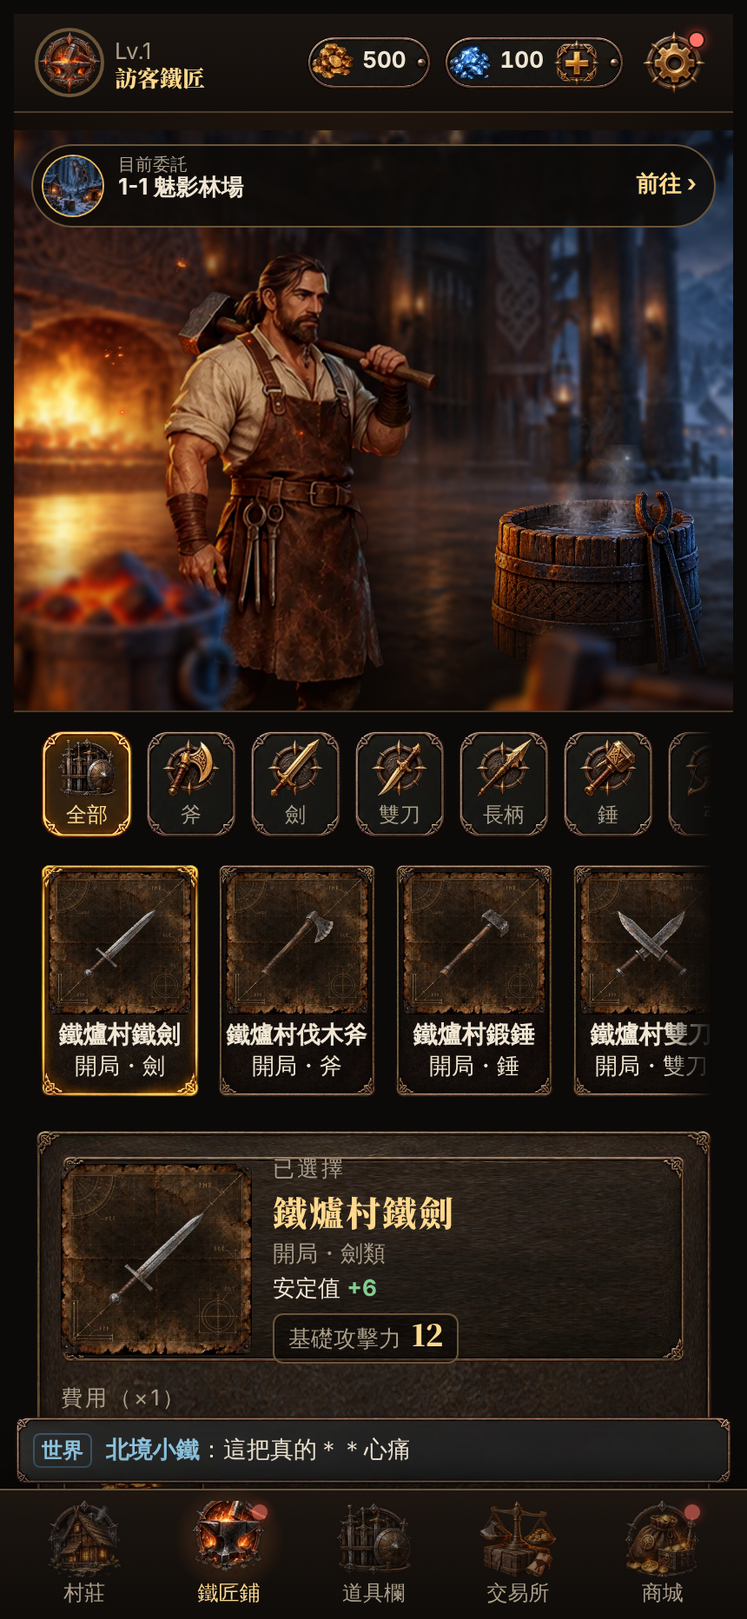
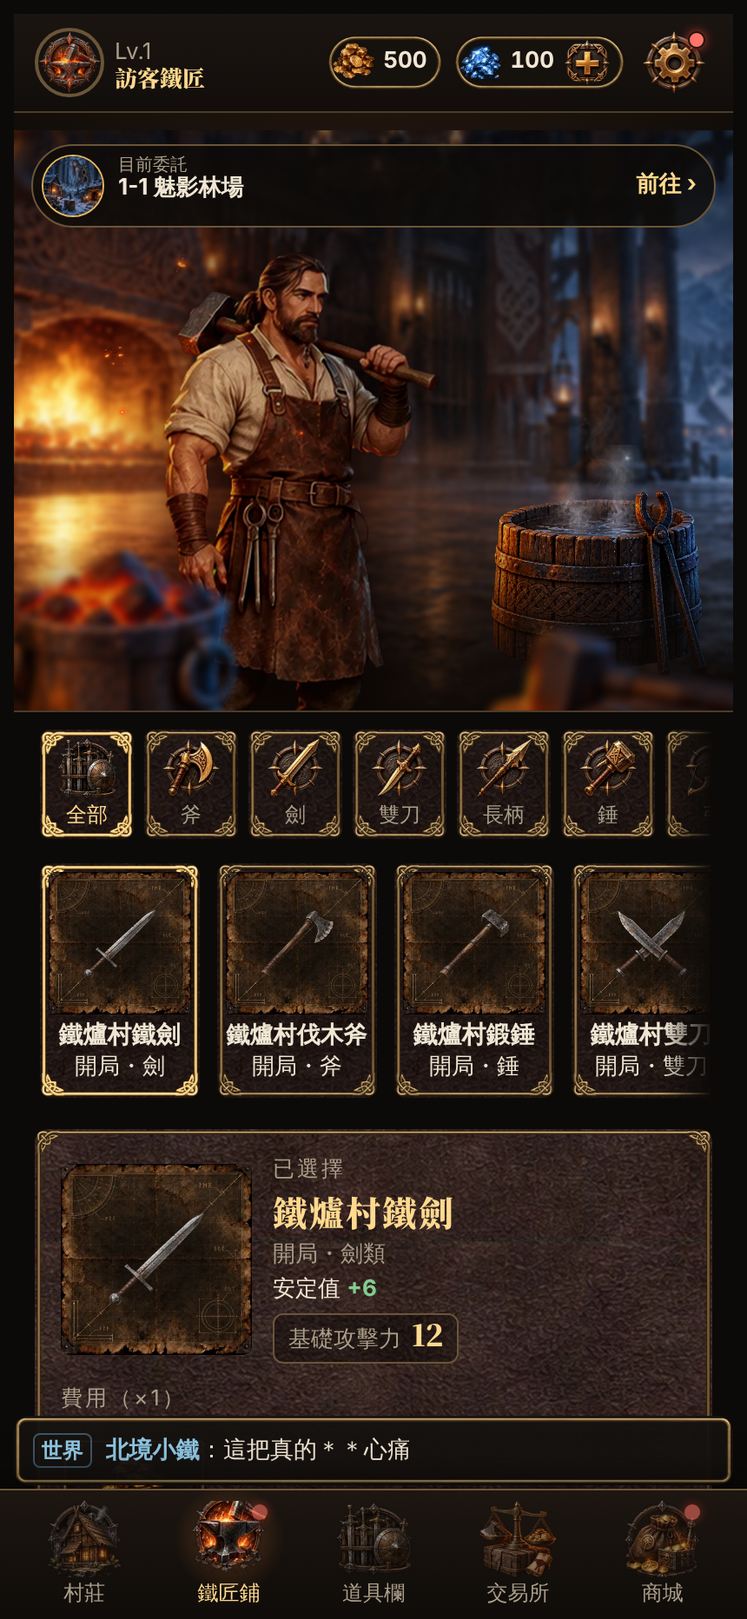
v4.91 AI 細線框與按鈕（角落雕花統一大小、底紋分開可重複）、強化故事書插圖
Claude-Session: https://claude.ai/code/session_01SeUeF3GZXFJm3dfT74oQ9s

diff --git a/index.html b/index.html
@@ -2003,20 +2003,22 @@ body.dpv .hero .dp-firelit{position:absolute;inset:0;z-index:1;pointer-events:no
 .fk-me .fk-s{font-size:20px;font-family:var(--display)}
 .kvgrid [class*="elc-"]{color:var(--ec)}   /* v4.76 村莊詳情的屬性、弱點用屬性顏色 */
 
-/* v4.91 Mochi：程式畫的框線看起來廉價 → 沒有皮膚槽位的元件也換成 AI 細線框（素材 art/ui/ui491_*，皮膚槽位設定在 skin.js） */
+/* v4.91 Mochi：程式畫的框線看起來廉價 → 沒有皮膚槽位的元件也換成 AI 細線框（素材 art/ui/ui491_*，皮膚槽位設定在 skin.js）
+   框：fr 暗銅／fr_on 金（選中）／fr_red 紅（危險）／fr_off 灰（鎖住、停用），角落雕花一樣大（15px）；fl* 是沒有雕花的細線框，給小元件用；cap* 是膠囊 */
 .sheet,.modal-card,.info-body{scrollbar-width:none}.sheet::-webkit-scrollbar,.modal-card::-webkit-scrollbar,.info-body::-webkit-scrollbar{display:none}   /* 小卡內容稍微超出時不顯示旁邊的捲動條（還是可以滑） */
-.wt:not(#_),.wt:is(.l0b,.l1b,.l2b,.l3b,.l4b,.l5b,.l6b,.posted):not(#_){border-color:transparent;border-image:url(art/ui/ui491_tile.webp) 44 fill / 13px stretch;background:none;box-shadow:none}
-.sg-day:not(#_),.matbox:not(#_){border-color:transparent;border-image:url(art/ui/ui491_cell.webp) 46 fill / 14px stretch;background:none;box-shadow:none}
-.sg-day.today:not(#_){border-image-source:url(art/ui/ui491_cell_on.webp)}
-.ach-rw:not(#_){border-color:transparent;border-image:url(art/ui/ui491_pill.webp) 59 60 fill / 30px stretch;background:none}
-.res .chip:not(#_){border-color:transparent;border-image:url(art/ui/ui491_res.webp) 56 58 fill / 30px stretch;background:none;box-shadow:none}
-.cbar-in:not(#_){border-color:transparent;border-image:url(art/ui/ui491_chat.webp) 36 40 fill / 10px 12px stretch;background:none;box-shadow:none}
-.sel select:not(#_){appearance:none;-webkit-appearance:none;border-color:transparent;border-image:url(art/ui/ui491_select.webp) 34 70 34 34 fill / 10px 21px 10px 10px stretch;background:none;padding-right:26px}
+.wt:not(#_),.wt:is(.l0b,.l1b,.l2b,.l3b,.l4b,.l5b,.l6b,.posted):not(#_),.sg-day:not(#_),.matbox:not(#_),.ev-st:not(#_),.wp-g>*:not(#_){border-color:transparent;border-image:url(art/ui/ui491_fr.webp) 50 / 15px stretch;background:linear-gradient(rgba(0,0,0,.38),rgba(0,0,0,.38)),url(art/ui/ui491_tex.webp) center/240px;box-shadow:none}
+.wt.on:not(#_),.sg-day.today:not(#_){outline:none;border-image-source:url(art/ui/ui491_fr_on.webp)}
+.ev-st.risk:not(#_),.enh-stage.danger:not(#_){border-color:transparent;border-image:url(art/ui/ui491_fr_red.webp) 50 / 15px stretch}
+.enh-stage:not(.danger):not(#_){border-color:transparent;border-image:url(art/ui/ui491_fr.webp) 50 / 15px stretch}
+.ev-warn.risk:not(#_){border-color:transparent;border-image:url(art/ui/ui491_fl_red.webp) 24 / 8px stretch}
+.enh-more:not(#_),.cbar-in:not(#_){border-color:transparent;border-image:url(art/ui/ui491_fl.webp) 24 / 8px stretch;box-shadow:none}
+.vlocked:not(#_){border-style:solid;border-color:transparent;border-image:url(art/ui/ui491_fr_off.webp) 50 / 15px stretch}
+.ach-rw:not(#_),.res .chip:not(#_){border-color:transparent;border-image:url(art/ui/ui491_cap.webp) 53 / 30px stretch;background:#15110d;box-shadow:none}
+.sel select:not(#_){appearance:none;-webkit-appearance:none;border-color:transparent;border-image:url(art/ui/ui491_fl.webp) 24 / 8px stretch;background:url(art/ui/ui491_chev.webp) right 10px center/10px auto no-repeat,#15110d;padding-right:28px}
 .sel select option{background:#16110d;color:var(--bone)}
 .info-btn:not(#_){border-color:transparent;background:url(art/ui/ui491_info.webp) center/100% 100% no-repeat;box-shadow:none}
-.wt.on:not(#_){outline:none;border-image-source:url(art/ui/ui491_cell_on.webp)}   /* 選中的圖紙／武器格用金色細框，不用程式畫的外框線 */
-.ui-panel .ui-card.sel-head:not(#_){border-image:none;border-color:transparent;background:none}   /* 面板裡的已選擇區塊不要再套一層框 */
-.res .chip:not(#_){padding-right:14px}
+.wp-g>*:not(#_){padding:9px 13px}
+.ui-panel.panel .ui-card.sel-head.sel-head:not(#_){border-image:none;border-color:transparent;background:none}   /* 面板裡的已選擇區塊不要再套一層框 */
 </style>
 <div class="ui-topbar bar"><div class="bar-in"><div class="res" id="res"></div></div><div class="news" id="news" aria-live="polite" data-act="chatsys"></div></div>
 <main class="wrap" id="view"></main>
@@ -2048,39 +2050,36 @@ body.dpv .hero .dp-firelit{position:absolute;inset:0;z-index:1;pointer-events:no
  *
  * 槽位對應的元件請見開發工具 →「UI 元件」分頁，或 UI_元件架構說明.txt。
  * ===================================================================== */
-const UI491_BTN=false;   // v4.91 按鈕要等角落雕花版的新圖（兩端整片雕花會因按鈕高矮變大變小，Mochi 不要）
 const UI_SKIN={
-  ...(UI491_BTN?{
-  'btn-primary':{src:'art/ui/ui491_btn_pri.webp',slice:[63,50,63,50],width:[30,24,30,24],css:'text-shadow:0 1px 2px #000,0 0 4px rgba(0,0,0,.85);padding-left:max(16px,.5em + 12px);padding-right:max(16px,.5em + 12px)'},  'btn-primary:pressed':{src:'art/ui/ui491_btn_pri_p.webp'},  'btn-primary:disabled':{src:'art/ui/ui491_btn_pri_d.webp',css:'filter:none;opacity:1;color:#cfc4b0;text-shadow:0 1px 2px #000,0 0 4px rgba(0,0,0,.85)'},
-  'btn-primary-big':{src:'art/ui/ui491_btn_pri.webp',slice:[63,50,63,50],width:[30,24,30,24],css:'text-shadow:0 1px 2px #000,0 0 4px rgba(0,0,0,.85);padding-left:max(16px,.5em + 12px);padding-right:max(16px,.5em + 12px)'},  'btn-primary-big:pressed':{src:'art/ui/ui491_btn_pri_p.webp'},  'btn-primary-big:disabled':{src:'art/ui/ui491_btn_pri_d.webp',css:'filter:none;opacity:1;color:#cfc4b0;text-shadow:0 1px 2px #000,0 0 4px rgba(0,0,0,.85)'},
-  'btn-primary-compact':{src:'art/ui/ui491_btn_pri.webp',slice:[63,50,63,50],width:[30,24,30,24],css:'text-shadow:0 1px 2px #000,0 0 4px rgba(0,0,0,.85);padding-left:max(16px,.5em + 12px);padding-right:max(16px,.5em + 12px)'},  'btn-primary-compact:pressed':{src:'art/ui/ui491_btn_pri_p.webp'},  'btn-primary-compact:disabled':{src:'art/ui/ui491_btn_pri_d.webp',css:'filter:none;opacity:1;color:#cfc4b0;text-shadow:0 1px 2px #000,0 0 4px rgba(0,0,0,.85)'},
-  'btn-secondary':{src:'art/ui/ui491_btn_sec.webp',slice:[63,50,63,50],width:[30,24,30,24],css:'text-shadow:0 1px 2px #000,0 0 4px rgba(0,0,0,.85);padding-left:max(16px,.5em + 12px);padding-right:max(16px,.5em + 12px)'},  'btn-secondary:pressed':{src:'art/ui/ui491_btn_sec_p.webp'},  'btn-secondary:disabled':{src:'art/ui/ui491_btn_sec_d.webp',css:'filter:none;opacity:1;color:#cfc4b0;text-shadow:0 1px 2px #000,0 0 4px rgba(0,0,0,.85)'},
-  'btn-secondary-big':{src:'art/ui/ui491_btn_sec.webp',slice:[63,50,63,50],width:[30,24,30,24],css:'text-shadow:0 1px 2px #000,0 0 4px rgba(0,0,0,.85);padding-left:max(16px,.5em + 12px);padding-right:max(16px,.5em + 12px)'},  'btn-secondary-big:pressed':{src:'art/ui/ui491_btn_sec_p.webp'},  'btn-secondary-big:disabled':{src:'art/ui/ui491_btn_sec_d.webp',css:'filter:none;opacity:1;color:#cfc4b0;text-shadow:0 1px 2px #000,0 0 4px rgba(0,0,0,.85)'},
-  'btn-secondary-compact':{src:'art/ui/ui491_btn_sec.webp',slice:[63,50,63,50],width:[30,24,30,24],css:'text-shadow:0 1px 2px #000,0 0 4px rgba(0,0,0,.85);padding-left:max(16px,.5em + 12px);padding-right:max(16px,.5em + 12px)'},  'btn-secondary-compact:pressed':{src:'art/ui/ui491_btn_sec_p.webp'},  'btn-secondary-compact:disabled':{src:'art/ui/ui491_btn_sec_d.webp',css:'filter:none;opacity:1;color:#cfc4b0;text-shadow:0 1px 2px #000,0 0 4px rgba(0,0,0,.85)'},
-  'btn-danger':{src:'art/ui/ui491_btn_dan.webp',slice:[63,50,63,50],width:[30,24,30,24],css:'text-shadow:0 1px 2px #000,0 0 4px rgba(0,0,0,.85);padding-left:max(16px,.5em + 12px);padding-right:max(16px,.5em + 12px)'},  'btn-danger:pressed':{src:'art/ui/ui491_btn_dan_p.webp'},  'btn-danger:disabled':{src:'art/ui/ui491_btn_dan_d.webp',css:'filter:none;opacity:1;color:#cfc4b0;text-shadow:0 1px 2px #000,0 0 4px rgba(0,0,0,.85)'},
-  'btn-danger-big':{src:'art/ui/ui491_btn_dan.webp',slice:[63,50,63,50],width:[30,24,30,24],css:'text-shadow:0 1px 2px #000,0 0 4px rgba(0,0,0,.85);padding-left:max(16px,.5em + 12px);padding-right:max(16px,.5em + 12px)'},  'btn-danger-big:pressed':{src:'art/ui/ui491_btn_dan_p.webp'},  'btn-danger-big:disabled':{src:'art/ui/ui491_btn_dan_d.webp',css:'filter:none;opacity:1;color:#cfc4b0;text-shadow:0 1px 2px #000,0 0 4px rgba(0,0,0,.85)'},
-  'btn-danger-compact':{src:'art/ui/ui491_btn_dan.webp',slice:[63,50,63,50],width:[30,24,30,24],css:'text-shadow:0 1px 2px #000,0 0 4px rgba(0,0,0,.85);padding-left:max(16px,.5em + 12px);padding-right:max(16px,.5em + 12px)'},  'btn-danger-compact:pressed':{src:'art/ui/ui491_btn_dan_p.webp'},  'btn-danger-compact:disabled':{src:'art/ui/ui491_btn_dan_d.webp',css:'filter:none;opacity:1;color:#cfc4b0;text-shadow:0 1px 2px #000,0 0 4px rgba(0,0,0,.85)'},
-  }:{}),
-  // v4.91 Mochi：程式畫的框和按鈕看起來很廉價 → 全部換成 AI 細線框（拼圖 3 張：/mnt/project-files/ui-skin/v4.91/）
-  //   width 是四邊圖框的繪製寬度；按鈕的上下寬度相加大於按鈕高度時，瀏覽器會整組等比縮小，所以同一張圖可以給各種高度的按鈕用
-  'btn-chip':{src:'art/ui/ui491_pill.webp',slice:[59,60,59,60],width:[30,30,30,30]},  'btn-chip:on':{src:'art/ui/ui491_pill_on.webp',css:'color:var(--gold-hi)'},
-  'btn-toggle':{src:'art/ui/ui491_tog.webp',slice:[40,40,40,40],width:[12,12,12,12]},  'btn-toggle:on':{src:'art/ui/ui491_tog_on.webp'},
+  // v4.91 Mochi：程式畫的框和按鈕看起來很廉價 → 換成 AI 細線框（拼圖：/mnt/project-files/ui-skin/v4.91/整合版_*）
+  //   規則：雕花只在四個角，所有元件的角落雕花都一樣大（圖框繪製寬度 ÷ 切片 ≈ 0.3）；框中間是空的，底紋另外用可重複的 ui491_tex
+  'btn-primary':{src:'art/ui/ui491_b_pri.webp',slice:[52,52,52,52],width:[15,15,15,15],css:'text-shadow:0 1px 2px #000,0 0 4px rgba(0,0,0,.85);padding-left:16px;padding-right:16px'},  'btn-primary:pressed':{src:'art/ui/ui491_b_pri_p.webp'},  'btn-primary:disabled':{src:'art/ui/ui491_b_pri_d.webp',css:'filter:none;opacity:1;color:#bdb3a2;text-shadow:0 1px 2px #000,0 0 4px rgba(0,0,0,.85)'},
+  'btn-primary-big':{src:'art/ui/ui491_b_pri.webp',slice:[52,52,52,52],width:[15,15,15,15],css:'text-shadow:0 1px 2px #000,0 0 4px rgba(0,0,0,.85);padding-left:16px;padding-right:16px'},  'btn-primary-big:pressed':{src:'art/ui/ui491_b_pri_p.webp'},  'btn-primary-big:disabled':{src:'art/ui/ui491_b_pri_d.webp',css:'filter:none;opacity:1;color:#bdb3a2;text-shadow:0 1px 2px #000,0 0 4px rgba(0,0,0,.85)'},
+  'btn-primary-compact':{src:'art/ui/ui491_b_pri.webp',slice:[52,52,52,52],width:[15,15,15,15],css:'text-shadow:0 1px 2px #000,0 0 4px rgba(0,0,0,.85);padding-left:16px;padding-right:16px'},  'btn-primary-compact:pressed':{src:'art/ui/ui491_b_pri_p.webp'},  'btn-primary-compact:disabled':{src:'art/ui/ui491_b_pri_d.webp',css:'filter:none;opacity:1;color:#bdb3a2;text-shadow:0 1px 2px #000,0 0 4px rgba(0,0,0,.85)'},
+  'btn-secondary':{src:'art/ui/ui491_b_sec.webp',slice:[52,52,52,52],width:[15,15,15,15],css:'text-shadow:0 1px 2px #000,0 0 4px rgba(0,0,0,.85);padding-left:16px;padding-right:16px'},  'btn-secondary:pressed':{src:'art/ui/ui491_b_sec_p.webp'},  'btn-secondary:disabled':{src:'art/ui/ui491_b_sec_d.webp',css:'filter:none;opacity:1;color:#bdb3a2;text-shadow:0 1px 2px #000,0 0 4px rgba(0,0,0,.85)'},
+  'btn-secondary-big':{src:'art/ui/ui491_b_sec.webp',slice:[52,52,52,52],width:[15,15,15,15],css:'text-shadow:0 1px 2px #000,0 0 4px rgba(0,0,0,.85);padding-left:16px;padding-right:16px'},  'btn-secondary-big:pressed':{src:'art/ui/ui491_b_sec_p.webp'},  'btn-secondary-big:disabled':{src:'art/ui/ui491_b_sec_d.webp',css:'filter:none;opacity:1;color:#bdb3a2;text-shadow:0 1px 2px #000,0 0 4px rgba(0,0,0,.85)'},
+  'btn-secondary-compact':{src:'art/ui/ui491_b_sec.webp',slice:[52,52,52,52],width:[15,15,15,15],css:'text-shadow:0 1px 2px #000,0 0 4px rgba(0,0,0,.85);padding-left:16px;padding-right:16px'},  'btn-secondary-compact:pressed':{src:'art/ui/ui491_b_sec_p.webp'},  'btn-secondary-compact:disabled':{src:'art/ui/ui491_b_sec_d.webp',css:'filter:none;opacity:1;color:#bdb3a2;text-shadow:0 1px 2px #000,0 0 4px rgba(0,0,0,.85)'},
+  'btn-danger':{src:'art/ui/ui491_b_dan.webp',slice:[52,52,52,52],width:[15,15,15,15],css:'text-shadow:0 1px 2px #000,0 0 4px rgba(0,0,0,.85);padding-left:16px;padding-right:16px'},  'btn-danger:pressed':{src:'art/ui/ui491_b_dan_p.webp'},  'btn-danger:disabled':{src:'art/ui/ui491_b_dan_d.webp',css:'filter:none;opacity:1;color:#bdb3a2;text-shadow:0 1px 2px #000,0 0 4px rgba(0,0,0,.85)'},
+  'btn-danger-big':{src:'art/ui/ui491_b_dan.webp',slice:[52,52,52,52],width:[15,15,15,15],css:'text-shadow:0 1px 2px #000,0 0 4px rgba(0,0,0,.85);padding-left:16px;padding-right:16px'},  'btn-danger-big:pressed':{src:'art/ui/ui491_b_dan_p.webp'},  'btn-danger-big:disabled':{src:'art/ui/ui491_b_dan_d.webp',css:'filter:none;opacity:1;color:#bdb3a2;text-shadow:0 1px 2px #000,0 0 4px rgba(0,0,0,.85)'},
+  'btn-danger-compact':{src:'art/ui/ui491_b_dan.webp',slice:[52,52,52,52],width:[15,15,15,15],css:'text-shadow:0 1px 2px #000,0 0 4px rgba(0,0,0,.85);padding-left:16px;padding-right:16px'},  'btn-danger-compact:pressed':{src:'art/ui/ui491_b_dan_p.webp'},  'btn-danger-compact:disabled':{src:'art/ui/ui491_b_dan_d.webp',css:'filter:none;opacity:1;color:#bdb3a2;text-shadow:0 1px 2px #000,0 0 4px rgba(0,0,0,.85)'},
+  'btn-chip':{src:'art/ui/ui491_cap.webp',slice:[53,53,53,53],width:[30,30,30,30],fill:false,css:'background:#15110d'},  'btn-chip:on':{src:'art/ui/ui491_cap_on.webp',css:'color:var(--gold-hi)'},
+  'btn-toggle':{src:'art/ui/ui491_fr.webp',slice:[50,50,50,50],width:[15,15,15,15],fill:false,css:'background:linear-gradient(rgba(0,0,0,.38),rgba(0,0,0,.38)),url(art/ui/ui491_tex.webp) center/240px'},  'btn-toggle:on':{src:'art/ui/ui491_fr_on.webp'},
   'btn-accent':null,            'btn-accent:pressed':null,
   'btn-icon':null,              'btn-icon:pressed':null,
-  'tab':{src:'art/ui/ui491_tab.webp',slice:[34,34,34,34],width:[10,10,10,10]},  'tab:on':{src:'art/ui/ui491_tab_on.webp'},
+  'tab':{src:'art/ui/ui491_fr.webp',slice:[50,50,50,50],width:[15,15,15,15],fill:false,css:'background:linear-gradient(rgba(0,0,0,.38),rgba(0,0,0,.38)),url(art/ui/ui491_tex.webp) center/240px'},  'tab:on':{src:'art/ui/ui491_fr_on.webp'},
   // 面板與卡片
-  'panel':{src:'art/ui/ui491_panel.webp',slice:[52,52,52,52],width:[16,16,16,16]},
+  'panel':{src:'art/ui/ui491_fr.webp',slice:[50,50,50,50],width:[15,15,15,15],fill:false,css:'background:url(art/ui/ui491_tex.webp) center/240px'},
   'title':null,
-  'card':{src:'art/ui/ui491_cell.webp',slice:[46,46,46,46],width:[14,14,14,14]},  'card:on':{src:'art/ui/ui491_cell_on.webp'},
-  'card-compact':{src:'art/ui/ui491_cell.webp',slice:[46,46,46,46],width:[14,14,14,14]},  'card-compact:on':{src:'art/ui/ui491_cell_on.webp'},
+  'card':{src:'art/ui/ui491_fr.webp',slice:[50,50,50,50],width:[15,15,15,15],fill:false,css:'background:linear-gradient(rgba(0,0,0,.38),rgba(0,0,0,.38)),url(art/ui/ui491_tex.webp) center/240px'},  'card:on':{src:'art/ui/ui491_fr_on.webp'},
+  'card-compact':{src:'art/ui/ui491_fr.webp',slice:[50,50,50,50],width:[15,15,15,15],fill:false,css:'background:linear-gradient(rgba(0,0,0,.38),rgba(0,0,0,.38)),url(art/ui/ui491_tex.webp) center/240px'},  'card-compact:on':{src:'art/ui/ui491_fr_on.webp'},
   'card-feature':null,
-  'card-option':{src:'art/ui/ui491_cell.webp',slice:[46,46,46,46],width:[14,14,14,14]},  'card-option:on':{src:'art/ui/ui491_cell_on.webp'},
-  'card-row':{src:'art/ui/ui491_row.webp',slice:[46,46,46,46],width:[14,14,14,14]},
+  'card-option':{src:'art/ui/ui491_fr.webp',slice:[50,50,50,50],width:[15,15,15,15],fill:false,css:'background:linear-gradient(rgba(0,0,0,.38),rgba(0,0,0,.38)),url(art/ui/ui491_tex.webp) center/240px'},  'card-option:on':{src:'art/ui/ui491_fr_on.webp'},
+  'card-row':{src:'art/ui/ui491_fr.webp',slice:[50,50,50,50],width:[15,15,15,15],fill:false,css:'background:linear-gradient(rgba(0,0,0,.38),rgba(0,0,0,.38)),url(art/ui/ui491_tex.webp) center/240px'},
   'badge':null,
   'prog':null,                  'prog-fill':null,
   // 視窗與常駐列
-  'sheet':{src:'art/ui/ui491_modal.webp',slice:[58,58,58,58],width:[17,17,17,17]},
-  'modal':{src:'art/ui/ui491_modal.webp',slice:[58,58,58,58],width:[17,17,17,17]},
+  'sheet':{src:'art/ui/ui491_fr_modal.webp',slice:[50,50,50,50],width:[17,17,17,17],fill:false,css:'background:url(art/ui/ui491_tex.webp) center/240px'},
+  'modal':{src:'art/ui/ui491_fr_modal.webp',slice:[50,50,50,50],width:[17,17,17,17],fill:false,css:'background:url(art/ui/ui491_tex.webp) center/240px'},
   'toast':null,
   'topbar':null,
   'navbar':null,
@@ -3507,6 +3506,7 @@ function sndSettings(){if(ui.sheet&&ui.sheet.t==='set')return render();ui.result
 // v4.03 遊戲內公告＋玩法說明（Mochi 選：右上角齒輪取代喇叭、內容寫在程式裡、不自動跳出只亮紅點）
 // 每次更新：在 NW_LOG 最上面加一則（g＝這次改到的玩法 key），並把 GUIDE 裡對應項目的內容和 v 改成新版本 → 沒看過的玩家會看到 NEW、齒輪亮紅點
 const NW_LOG=[
+ {v:'4.91',d:'10/25',t:'介面換上手工細線框・強化故事書',b:['面板、格子、分頁、按鈕、選單、膠囊標籤換成<b>手工雕刻的細金屬框</b>：暗銅是一般、金色是選中、紅色是危險、灰色是鎖住，四個角的小雕花全遊戲一樣大','強化小卡右上角多了故事書<b>「倒懸九夜」</b>：奧丁倒吊世界樹換來符文、符文石碑與強化石的由來，第一次翻開送 10 顆強化石','從武器小卡點「強化」不會再重播一次彈出動畫','小卡內容比較長時，旁邊不再顯示捲動條（一樣可以滑）'],g:['enh']},
  {v:'4.90',d:'10/25',t:'跑框特效不再重來',b:['+9 以上武器框的<b>電流繞框</b>特效，連按附魔、強化或畫面更新時不會再跳回起點重跑，所有地方都一樣'],g:['ench']},
  {v:'4.89',d:'10/25',t:'道具欄外框統一',b:['道具欄每一格的<b>外框統一成銅色</b>，不會再出現裡面藍框、外面綠框的情況；強化等級看裡面的武器框顏色'],g:['bag']},
  {v:'4.88',d:'10/25',t:'奧丁之咒顯示在武器名稱前面',b:['道具欄格子裡，中了奧丁之咒的武器名稱前面會顯示紅色「<b>奧丁之咒</b>」，跟屬性名稱一樣的位置'],g:['ench']},
@@ -3604,7 +3604,7 @@ const GUIDE=[
  ['基礎',[
   {k:'forge',ic:'t1_ironhammer_disp',n:'鍛造',s:'選圖紙、付金幣和材料，5 秒打好一批',v:'4.54',h:'在鐵匠鋪「圖紙」選一張圖紙，金幣和材料夠就能按「開始鍛造」。開局 7 把只花金幣；之後的武器要用打怪掉的材料：第一界用<b>中庭鐵礦、松林硬木</b>，第二界用<b>約頓霜鐵、約頓巨木</b>，怪物主題武器另外要怪物部位（1-7 巨魔石皮、2-8 幻術巨人王骨），Boss 武器要 Boss 素材（1-10 彩虹橋碎晶、2-10 索爾雷晶）。<br>開局就有 7 種武器的圖紙；收復第一界 1-2、1-4、1-6、1-7、1-10，第二界 2-1、2-3、2-5、2-8、2-10 會解鎖新圖紙。第 7／8 關是<b>怪物主題武器</b>（攻擊力多 10%），第 10 關是 <b>Boss 武器</b>（帶專屬特效）。兩界為一階，同一階的武器一樣強，想變強就要強化。<br>一次一批（最多 10 把），不管幾把都是 <b>5 秒</b>完成，進度條就在「開始鍛造」下方，可以取消（金幣全退）。'},
   {k:'wpn',ic:'cat_sword',n:'武器數值與相剋',s:'攻速、附加效果、相剋，點武器看小卡',v:'4.79',h:'點武器會跳出小卡。<b>攻擊力＝每秒傷害</b>，已經算進附加效果的平均。<br>七類武器攻速：雙刀 0.6 秒、劍 1.0、弓 1.1、長柄 1.2、斧 1.3、弩 1.6、錘 1.8 秒；每秒傷害都差不多，攻速慢的單擊比較重。<br><b>附加效果</b>：劍會心、斧流血、錘震碎、雙刀中毒、長柄貫穿、弓穿心、弩破甲；+1～+6 每級觸發率 2%，+7 起 16／20／25／30／35／40%。<br><b>相剋</b>：怪物分人形、野獸、巨型、亡靈。劍、雙刀剋人形，長柄、斧剋野獸，弩、弓剋巨型，錘剋亡靈；打被剋的怪物傷害會增加，強化越高加越多：+1～+6 每級 +1%、+7～+9 每級 +2%、+10～+12 每級 +3%（+6 為 6%、+9 為 12%、+12 為 21%），跟屬性弱點一起算。<br>武器名稱是「+7 寒霜 鐵劍」：強化等級、附魔、武器名。'},
-  {k:'enh',ic:'it_bless',n:'強化',s:'每次 1 顆強化石，最高 +12',v:'4.65',h:'每次強化用 <b>1 顆強化石</b>，不花金幣，成功或失敗都會用掉。強化石從村莊收成拿（越後面的關卡掉越多），熔解武器也會退 1 顆。<br>+1～+6 一定成功。+7 起是危險區：+7 35%、+8 32.5%、+9 30%，失敗就爆裝；+10～+12 每級 1%，失敗時 1/3 維持原樣、2/3 爆裝。最高 <b>+12</b>。<br>攻擊倍率：+6 ×1.6、+7 ×1.9、+8 ×2.25、+9 ×2.65、+10 ×3.3、+11 ×4、+12 ×4.8。<br>武器的框色看強化等級：+0 灰、+1～+6 綠、+7～+8 藍、+9 紅、+10 金、+11 紫、+12 鑽石，+9 以上的框有電流繞著跑。<br>+1～+6 按強化直接出結果；+7 起符文石碑的燈光和武器光暈就是那一級外框的顏色。「一鍵強化」會一級一級連擊播放，點畫面可以略過。'},
+  {k:'enh',ic:'it_bless',n:'強化',s:'每次 1 顆強化石，最高 +12',v:'4.91',h:'每次強化用 <b>1 顆強化石</b>，不花金幣，成功或失敗都會用掉。強化石從村莊收成拿（越後面的關卡掉越多），熔解武器也會退 1 顆。<br>+1～+6 一定成功。+7 起是危險區：+7 35%、+8 32.5%、+9 30%，失敗就爆裝；+10～+12 每級 1%，失敗時 1/3 維持原樣、2/3 爆裝。最高 <b>+12</b>。<br>攻擊倍率：+6 ×1.6、+7 ×1.9、+8 ×2.25、+9 ×2.65、+10 ×3.3、+11 ×4、+12 ×4.8。<br>武器的框色看強化等級：+0 灰、+1～+6 綠、+7～+8 藍、+9 紅、+10 金、+11 紫、+12 鑽石，+9 以上的框有電流繞著跑。<br>+1～+6 按強化直接出結果；+7 起符文石碑的燈光和武器光暈就是那一級外框的顏色。「一鍵強化」會一級一級連擊播放，點畫面可以略過。<br>強化小卡右上角的故事書「倒懸九夜」講符文石碑和強化石的由來，第一次翻開送 10 顆強化石。'},
   {k:'ench',ic:'mat_shard',n:'屬性附魔',s:'6 種屬性三對互剋，打中弱點加傷害、同屬性扣傷害',v:'4.84',h:'鍛造出來的武器一律<b>無屬性</b>。每次附魔花 <b>1 顆附魔石</b>加金幣，隨機附魔，得到 1 種屬性（每把武器只有 1 欄，重抽會蓋掉舊的；已經是三級時會跳確認小卡，按「確定重抽」才會重抽）。<br>屬性 6 種：<b>火屬性、冰屬性、雷屬性、毒屬性、聖屬性、暗屬性</b>，機率一樣。等級越高越難抽：一級 66.5%、二級 23.75%、三級 4.75%。<br><b>奧丁之咒（5%）</b>：符文之主奧丁不許凡人動祂的符文，降下詛咒。原本的屬性消失，武器<b>完全不能使用</b>（不能駐守、挑戰、強化、上架、登錄圖鑑），要用 1 顆<b>矮人解咒石</b>解咒，解咒後變回無屬性。解咒石打倒怪物有機率掉，商城也買得到。<br>名稱：火屬性 餘燼／烈焰／滅世之焰；冰屬性 寒霜／冰封／永凍之霜；雷屬性 雷光／雷鳴／雷神之怒；毒屬性 蝕毒／蛇毒／巨蟒之毒；聖屬性 微光／聖光／光神聖輝；暗屬性 幽影／暗夜／盲神之影。<br><b>相剋（三對宿敵）</b>：火屬性⇄冰屬性、雷屬性⇄毒屬性、聖屬性⇄暗屬性。每隻怪物都有屬性，弱點就是對手屬性。<br>打中弱點：一級 +3%、二級 +6%、三級 +10%，狩獵更快、收成更多。<br><b>同屬性抗性</b>：拿跟怪物一樣屬性的武器（例如火屬性打火屬性的怪物）：一級 −3%、二級 −6%、三級 −10%。等級越高加越多、也扣越多，附魔前先看清楚怪物屬性。<br>其他屬性或無屬性都是正常傷害。屬性不加攻擊力。'},
   {k:'bag',ic:'nav_forge',n:'道具欄',s:'同一種道具疊一格，沒有上限',v:'4.72',h:'下方導覽的「<b>道具欄</b>」（原本的武器庫）分「武器／材料／圖鑑」三頁，道具在「材料」頁。<br>武器頁：一模一樣的武器（同一把、同強化等級、同屬性）疊在同一格，右下角是數量；點進去的操作只動其中一把；按「一鍵安定值」後小卡會換到下一把同款，可以一直按。上限 200 把照算每一把。同一種道具放在同一格，右下角顯示數量，沒有上限。<br>道具：<b>強化石</b>（強化用）、<b>附魔石</b>（附魔用）、<b>英靈・遺物</b>（綠光、藍光、紅光、金光四種，光芒越亮內容越好）。三種都是打倒怪物有機率掉，越後面的關卡掉越多、好遺物越多。<br>點遺物可以看開出機率，按「打開 1 個」或「全部打開」：可能開到金幣、材料、強化石、附魔石、Boss 素材或武器。<br>材料：每一界 2 種一般材料，加上怪物部位和 Boss 素材，點一下看哪裡掉、哪把武器會用到。'},
   {k:'codex',ic:'nav_armory',n:'武器圖鑑',s:'登錄武器換全帳號攻擊力，武器會消失',v:'4.72',h:'道具欄的「<b>圖鑑</b>」分頁。每把武器有 3 格：<b>+0</b>（+0.2%）、<b>+6</b>（+0.6%）、<b>+9</b>（+1.5%），道具欄有強化到那個等級以上的同款武器就能登錄（格子會發亮），自動挑等級最低、沒駐守、沒鎖定的那把。<br><b>登錄後那把武器會消失</b>，換到所有武器攻擊力的永久加成。<br>「套裝」分頁：6 個套裝湊齊再加 +2%～+5%。兩界全部收滿最多 +57.1%。'},
@@ -3702,7 +3702,7 @@ function enhance(id){
   playFx(r.danger,r.before,r.next,res)}
 function enchant(id,slot){const r=enchantCore(id,slot);if(r.err)return toast(r.err,'bad');if(r.k==='broken'){snd('enh_break');ui.result={t:'info',title:'奧丁之咒！',html:'<div class="center">符文之主奧丁不許凡人動祂的符文，降下了詛咒。<br>這把武器<b class="t-danger">完全不能使用</b>，<br>要用<b>矮人解咒石</b>破除，解咒後變回無屬性。</div>',ok:'知道了'};return render()}snd(r.v>=3?'enh_ok':'enchant');render()}
 // v4.83 故事書（Mochi：附魔系統旁邊放一本書，裡面一張圖＋故事，讓遊戲有劇情）。圖 art/ic_lore、art/story_ench 還沒到時先放待生圖框
-const LORE_ART={ic_lore:true,story_ench:true};   // v4.83 Mochi AI 生圖已到
+const LORE_ART={ic_lore:true,story_ench:true,story_enh:true};   // v4.83 Mochi AI 生圖已到
 const loreArt=(n,cls)=>LORE_ART[n]?img(n,cls):`<span class="ph-ico ${cls}">待生圖</span>`;
 const loreNew=k=>!(S.loreSeen||{})[k];   // v4.83 Mochi：第一次翻開送 10 顆附魔石＋2 顆矮人解咒石，只能領一次（存檔 S.loreSeen）
 const loreBtn=k=>`<button class="ui-iconbtn icon-btn img lore-btn" data-act="lore" data-k="${k}" aria-label="故事">${loreArt('ic_lore','lore-ic')}${loreNew(k)?'<i class="dot give-dot"></i>':''}</button>`;
@@ -4850,6 +4850,7 @@ function viewShop(){
 // v4.62 開發者工具「依版本」分頁（Mochi）：新版本一律加在最上面，一個版本一段。
 // v＝版本、t＝這版改了什麼（一句話）、b＝[按鈕代碼, 按鈕文字]；按鈕代碼就是 devdo(k) 的 k，文字可以是函式（會變的狀態）
 const DEV_LOG=[
+ {v:'4.91',t:'AI 細線框與按鈕、強化故事書「倒懸九夜」、強化不重播彈出',b:[['skin91','給測試武器並打開武器小卡（看框、按鈕；再按「強化」看會不會重播彈出）'],['lore91','打開強化故事書「倒懸九夜」（第一次送 10 顆強化石）'],['lore83r','重置故事書已讀（可以再領一次測試）']]},
  {v:'4.90',t:'+9 以上跑框特效：畫面重畫時接著跑，不再重置',b:[['run90','給 +9 測試劍並打開附魔，每 0.3 秒重畫一次（看跑框會不會跳）']]},
  {v:'4.89',t:'道具欄格子外框統一銅色（強化等級只看內框）',b:[['flvtest','給各強化等級的武器（看道具欄外框）']]},
  {v:'4.88',t:'道具欄格子：奧丁之咒改顯示在武器名稱前面',b:[['brkstk','給 3 把同款 +6 劍，其中 1 把中咒（看道具欄）']]},
@@ -5084,6 +5085,8 @@ if(k==='cpush'){toast('上傳中…');cloudPush(true).then(()=>{toast(CLOUD.err?
   if(k==='affopen'){const c={},t=[0,0,0,0];for(let i=0;i<6000;i++){const x=Object.keys(ELEM)[rnd(0,5)],v=weighted([1,2,3],y=>ELEM_TW[y]);c[x]=(c[x]||0)+1;t[v]++}   // v4.44 屬性附魔
     return toast(`附魔 6000 次：${Object.entries(c).map(([x,n])=>ELEM[x].n+' '+n).join('、')}<br>等級：一級 ${t[1]}、二級 ${t[2]}、三級 ${t[3]}（應約 4200／1500／300）`,'ok')}
   if(k==='res77'){const wi=makeWeapon('dev_sword',2,6,[],[{k:'ice',v:3},null,null,null]),wf=makeWeapon('dev_sword',2,6,[],[{k:'fire',v:3},null,null,null]);save();ui.sheet={t:'w',id:wf.id,m:'ench'};render();return toast(`1-9 火焰騎兵：永凍之霜 ×${weakMul(8,wi)}（應 1.1）、滅世之焰 ×${weakMul(8,wf)}（應 0.9）`)}
+  if(k==='skin91'){S.weapons=S.weapons||[];devdo('flvtest');const w=S.weapons.find(x=>x.test&&x.lv===8)||S.weapons[0];ui.tab='armory';ui.atab='w';ui.sheet=w?{t:'w',id:w.id,m:'main'}:null;render();return}
+  if(k==='lore91'){const w=makeWeapon('dev_sword',2,8,[]);save();ui.sheet={t:'w',id:w.id,m:'enh'};loreOpen('enh');return}
   if(k==='lore83r'){S.loreSeen={};save();render();return toast('故事書已讀已重置','ok')}
   if(k==='lore83'){const w=makeWeapon('dev_sword',2,6,[]);save();ui.sheet={t:'w',id:w.id,m:'ench'};loreOpen('ench');return}
   if(k==='brk83'){const w=makeWeapon('dev_sword',2,6,[],[{k:'broken',v:1},null,null,null]);S.items[REPAIR]=(S.items[REPAIR]|0)+3;save();ui.sheet={t:'w',id:w.id,m:'main'};render();return}

diff --git a/src/game.js b/src/game.js
@@ -1313,6 +1313,7 @@ function sndSettings(){if(ui.sheet&&ui.sheet.t==='set')return render();ui.result
 // v4.03 遊戲內公告＋玩法說明（Mochi 選：右上角齒輪取代喇叭、內容寫在程式裡、不自動跳出只亮紅點）
 // 每次更新：在 NW_LOG 最上面加一則（g＝這次改到的玩法 key），並把 GUIDE 裡對應項目的內容和 v 改成新版本 → 沒看過的玩家會看到 NEW、齒輪亮紅點
 const NW_LOG=[
+ {v:'4.91',d:'10/25',t:'介面換上手工細線框・強化故事書',b:['面板、格子、分頁、按鈕、選單、膠囊標籤換成<b>手工雕刻的細金屬框</b>：暗銅是一般、金色是選中、紅色是危險、灰色是鎖住，四個角的小雕花全遊戲一樣大','強化小卡右上角多了故事書<b>「倒懸九夜」</b>：奧丁倒吊世界樹換來符文、符文石碑與強化石的由來，第一次翻開送 10 顆強化石','從武器小卡點「強化」不會再重播一次彈出動畫','小卡內容比較長時，旁邊不再顯示捲動條（一樣可以滑）'],g:['enh']},
  {v:'4.90',d:'10/25',t:'跑框特效不再重來',b:['+9 以上武器框的<b>電流繞框</b>特效，連按附魔、強化或畫面更新時不會再跳回起點重跑，所有地方都一樣'],g:['ench']},
  {v:'4.89',d:'10/25',t:'道具欄外框統一',b:['道具欄每一格的<b>外框統一成銅色</b>，不會再出現裡面藍框、外面綠框的情況；強化等級看裡面的武器框顏色'],g:['bag']},
  {v:'4.88',d:'10/25',t:'奧丁之咒顯示在武器名稱前面',b:['道具欄格子裡，中了奧丁之咒的武器名稱前面會顯示紅色「<b>奧丁之咒</b>」，跟屬性名稱一樣的位置'],g:['ench']},
@@ -1410,7 +1411,7 @@ const GUIDE=[
  ['基礎',[
   {k:'forge',ic:'t1_ironhammer_disp',n:'鍛造',s:'選圖紙、付金幣和材料，5 秒打好一批',v:'4.54',h:'在鐵匠鋪「圖紙」選一張圖紙，金幣和材料夠就能按「開始鍛造」。開局 7 把只花金幣；之後的武器要用打怪掉的材料：第一界用<b>中庭鐵礦、松林硬木</b>，第二界用<b>約頓霜鐵、約頓巨木</b>，怪物主題武器另外要怪物部位（1-7 巨魔石皮、2-8 幻術巨人王骨），Boss 武器要 Boss 素材（1-10 彩虹橋碎晶、2-10 索爾雷晶）。<br>開局就有 7 種武器的圖紙；收復第一界 1-2、1-4、1-6、1-7、1-10，第二界 2-1、2-3、2-5、2-8、2-10 會解鎖新圖紙。第 7／8 關是<b>怪物主題武器</b>（攻擊力多 10%），第 10 關是 <b>Boss 武器</b>（帶專屬特效）。兩界為一階，同一階的武器一樣強，想變強就要強化。<br>一次一批（最多 10 把），不管幾把都是 <b>5 秒</b>完成，進度條就在「開始鍛造」下方，可以取消（金幣全退）。'},
   {k:'wpn',ic:'cat_sword',n:'武器數值與相剋',s:'攻速、附加效果、相剋，點武器看小卡',v:'4.79',h:'點武器會跳出小卡。<b>攻擊力＝每秒傷害</b>，已經算進附加效果的平均。<br>七類武器攻速：雙刀 0.6 秒、劍 1.0、弓 1.1、長柄 1.2、斧 1.3、弩 1.6、錘 1.8 秒；每秒傷害都差不多，攻速慢的單擊比較重。<br><b>附加效果</b>：劍會心、斧流血、錘震碎、雙刀中毒、長柄貫穿、弓穿心、弩破甲；+1～+6 每級觸發率 2%，+7 起 16／20／25／30／35／40%。<br><b>相剋</b>：怪物分人形、野獸、巨型、亡靈。劍、雙刀剋人形，長柄、斧剋野獸，弩、弓剋巨型，錘剋亡靈；打被剋的怪物傷害會增加，強化越高加越多：+1～+6 每級 +1%、+7～+9 每級 +2%、+10～+12 每級 +3%（+6 為 6%、+9 為 12%、+12 為 21%），跟屬性弱點一起算。<br>武器名稱是「+7 寒霜 鐵劍」：強化等級、附魔、武器名。'},
-  {k:'enh',ic:'it_bless',n:'強化',s:'每次 1 顆強化石，最高 +12',v:'4.65',h:'每次強化用 <b>1 顆強化石</b>，不花金幣，成功或失敗都會用掉。強化石從村莊收成拿（越後面的關卡掉越多），熔解武器也會退 1 顆。<br>+1～+6 一定成功。+7 起是危險區：+7 35%、+8 32.5%、+9 30%，失敗就爆裝；+10～+12 每級 1%，失敗時 1/3 維持原樣、2/3 爆裝。最高 <b>+12</b>。<br>攻擊倍率：+6 ×1.6、+7 ×1.9、+8 ×2.25、+9 ×2.65、+10 ×3.3、+11 ×4、+12 ×4.8。<br>武器的框色看強化等級：+0 灰、+1～+6 綠、+7～+8 藍、+9 紅、+10 金、+11 紫、+12 鑽石，+9 以上的框有電流繞著跑。<br>+1～+6 按強化直接出結果；+7 起符文石碑的燈光和武器光暈就是那一級外框的顏色。「一鍵強化」會一級一級連擊播放，點畫面可以略過。'},
+  {k:'enh',ic:'it_bless',n:'強化',s:'每次 1 顆強化石，最高 +12',v:'4.91',h:'每次強化用 <b>1 顆強化石</b>，不花金幣，成功或失敗都會用掉。強化石從村莊收成拿（越後面的關卡掉越多），熔解武器也會退 1 顆。<br>+1～+6 一定成功。+7 起是危險區：+7 35%、+8 32.5%、+9 30%，失敗就爆裝；+10～+12 每級 1%，失敗時 1/3 維持原樣、2/3 爆裝。最高 <b>+12</b>。<br>攻擊倍率：+6 ×1.6、+7 ×1.9、+8 ×2.25、+9 ×2.65、+10 ×3.3、+11 ×4、+12 ×4.8。<br>武器的框色看強化等級：+0 灰、+1～+6 綠、+7～+8 藍、+9 紅、+10 金、+11 紫、+12 鑽石，+9 以上的框有電流繞著跑。<br>+1～+6 按強化直接出結果；+7 起符文石碑的燈光和武器光暈就是那一級外框的顏色。「一鍵強化」會一級一級連擊播放，點畫面可以略過。<br>強化小卡右上角的故事書「倒懸九夜」講符文石碑和強化石的由來，第一次翻開送 10 顆強化石。'},
   {k:'ench',ic:'mat_shard',n:'屬性附魔',s:'6 種屬性三對互剋，打中弱點加傷害、同屬性扣傷害',v:'4.84',h:'鍛造出來的武器一律<b>無屬性</b>。每次附魔花 <b>1 顆附魔石</b>加金幣，隨機附魔，得到 1 種屬性（每把武器只有 1 欄，重抽會蓋掉舊的；已經是三級時會跳確認小卡，按「確定重抽」才會重抽）。<br>屬性 6 種：<b>火屬性、冰屬性、雷屬性、毒屬性、聖屬性、暗屬性</b>，機率一樣。等級越高越難抽：一級 66.5%、二級 23.75%、三級 4.75%。<br><b>奧丁之咒（5%）</b>：符文之主奧丁不許凡人動祂的符文，降下詛咒。原本的屬性消失，武器<b>完全不能使用</b>（不能駐守、挑戰、強化、上架、登錄圖鑑），要用 1 顆<b>矮人解咒石</b>解咒，解咒後變回無屬性。解咒石打倒怪物有機率掉，商城也買得到。<br>名稱：火屬性 餘燼／烈焰／滅世之焰；冰屬性 寒霜／冰封／永凍之霜；雷屬性 雷光／雷鳴／雷神之怒；毒屬性 蝕毒／蛇毒／巨蟒之毒；聖屬性 微光／聖光／光神聖輝；暗屬性 幽影／暗夜／盲神之影。<br><b>相剋（三對宿敵）</b>：火屬性⇄冰屬性、雷屬性⇄毒屬性、聖屬性⇄暗屬性。每隻怪物都有屬性，弱點就是對手屬性。<br>打中弱點：一級 +3%、二級 +6%、三級 +10%，狩獵更快、收成更多。<br><b>同屬性抗性</b>：拿跟怪物一樣屬性的武器（例如火屬性打火屬性的怪物）：一級 −3%、二級 −6%、三級 −10%。等級越高加越多、也扣越多，附魔前先看清楚怪物屬性。<br>其他屬性或無屬性都是正常傷害。屬性不加攻擊力。'},
   {k:'bag',ic:'nav_forge',n:'道具欄',s:'同一種道具疊一格，沒有上限',v:'4.72',h:'下方導覽的「<b>道具欄</b>」（原本的武器庫）分「武器／材料／圖鑑」三頁，道具在「材料」頁。<br>武器頁：一模一樣的武器（同一把、同強化等級、同屬性）疊在同一格，右下角是數量；點進去的操作只動其中一把；按「一鍵安定值」後小卡會換到下一把同款，可以一直按。上限 200 把照算每一把。同一種道具放在同一格，右下角顯示數量，沒有上限。<br>道具：<b>強化石</b>（強化用）、<b>附魔石</b>（附魔用）、<b>英靈・遺物</b>（綠光、藍光、紅光、金光四種，光芒越亮內容越好）。三種都是打倒怪物有機率掉，越後面的關卡掉越多、好遺物越多。<br>點遺物可以看開出機率，按「打開 1 個」或「全部打開」：可能開到金幣、材料、強化石、附魔石、Boss 素材或武器。<br>材料：每一界 2 種一般材料，加上怪物部位和 Boss 素材，點一下看哪裡掉、哪把武器會用到。'},
   {k:'codex',ic:'nav_armory',n:'武器圖鑑',s:'登錄武器換全帳號攻擊力，武器會消失',v:'4.72',h:'道具欄的「<b>圖鑑</b>」分頁。每把武器有 3 格：<b>+0</b>（+0.2%）、<b>+6</b>（+0.6%）、<b>+9</b>（+1.5%），道具欄有強化到那個等級以上的同款武器就能登錄（格子會發亮），自動挑等級最低、沒駐守、沒鎖定的那把。<br><b>登錄後那把武器會消失</b>，換到所有武器攻擊力的永久加成。<br>「套裝」分頁：6 個套裝湊齊再加 +2%～+5%。兩界全部收滿最多 +57.1%。'},
@@ -1508,7 +1509,7 @@ function enhance(id){
   playFx(r.danger,r.before,r.next,res)}
 function enchant(id,slot){const r=enchantCore(id,slot);if(r.err)return toast(r.err,'bad');if(r.k==='broken'){snd('enh_break');ui.result={t:'info',title:'奧丁之咒！',html:'<div class="center">符文之主奧丁不許凡人動祂的符文，降下了詛咒。<br>這把武器<b class="t-danger">完全不能使用</b>，<br>要用<b>矮人解咒石</b>破除，解咒後變回無屬性。</div>',ok:'知道了'};return render()}snd(r.v>=3?'enh_ok':'enchant');render()}
 // v4.83 故事書（Mochi：附魔系統旁邊放一本書，裡面一張圖＋故事，讓遊戲有劇情）。圖 art/ic_lore、art/story_ench 還沒到時先放待生圖框
-const LORE_ART={ic_lore:true,story_ench:true};   // v4.83 Mochi AI 生圖已到
+const LORE_ART={ic_lore:true,story_ench:true,story_enh:true};   // v4.83 Mochi AI 生圖已到
 const loreArt=(n,cls)=>LORE_ART[n]?img(n,cls):`<span class="ph-ico ${cls}">待生圖</span>`;
 const loreNew=k=>!(S.loreSeen||{})[k];   // v4.83 Mochi：第一次翻開送 10 顆附魔石＋2 顆矮人解咒石，只能領一次（存檔 S.loreSeen）
 const loreBtn=k=>`<button class="ui-iconbtn icon-btn img lore-btn" data-act="lore" data-k="${k}" aria-label="故事">${loreArt('ic_lore','lore-ic')}${loreNew(k)?'<i class="dot give-dot"></i>':''}</button>`;
@@ -2656,6 +2657,7 @@ function viewShop(){
 // v4.62 開發者工具「依版本」分頁（Mochi）：新版本一律加在最上面，一個版本一段。
 // v＝版本、t＝這版改了什麼（一句話）、b＝[按鈕代碼, 按鈕文字]；按鈕代碼就是 devdo(k) 的 k，文字可以是函式（會變的狀態）
 const DEV_LOG=[
+ {v:'4.91',t:'AI 細線框與按鈕、強化故事書「倒懸九夜」、強化不重播彈出',b:[['skin91','給測試武器並打開武器小卡（看框、按鈕；再按「強化」看會不會重播彈出）'],['lore91','打開強化故事書「倒懸九夜」（第一次送 10 顆強化石）'],['lore83r','重置故事書已讀（可以再領一次測試）']]},
  {v:'4.90',t:'+9 以上跑框特效：畫面重畫時接著跑，不再重置',b:[['run90','給 +9 測試劍並打開附魔，每 0.3 秒重畫一次（看跑框會不會跳）']]},
  {v:'4.89',t:'道具欄格子外框統一銅色（強化等級只看內框）',b:[['flvtest','給各強化等級的武器（看道具欄外框）']]},
  {v:'4.88',t:'道具欄格子：奧丁之咒改顯示在武器名稱前面',b:[['brkstk','給 3 把同款 +6 劍，其中 1 把中咒（看道具欄）']]},
@@ -2890,6 +2892,8 @@ if(k==='cpush'){toast('上傳中…');cloudPush(true).then(()=>{toast(CLOUD.err?
   if(k==='affopen'){const c={},t=[0,0,0,0];for(let i=0;i<6000;i++){const x=Object.keys(ELEM)[rnd(0,5)],v=weighted([1,2,3],y=>ELEM_TW[y]);c[x]=(c[x]||0)+1;t[v]++}   // v4.44 屬性附魔
     return toast(`附魔 6000 次：${Object.entries(c).map(([x,n])=>ELEM[x].n+' '+n).join('、')}<br>等級：一級 ${t[1]}、二級 ${t[2]}、三級 ${t[3]}（應約 4200／1500／300）`,'ok')}
   if(k==='res77'){const wi=makeWeapon('dev_sword',2,6,[],[{k:'ice',v:3},null,null,null]),wf=makeWeapon('dev_sword',2,6,[],[{k:'fire',v:3},null,null,null]);save();ui.sheet={t:'w',id:wf.id,m:'ench'};render();return toast(`1-9 火焰騎兵：永凍之霜 ×${weakMul(8,wi)}（應 1.1）、滅世之焰 ×${weakMul(8,wf)}（應 0.9）`)}
+  if(k==='skin91'){S.weapons=S.weapons||[];devdo('flvtest');const w=S.weapons.find(x=>x.test&&x.lv===8)||S.weapons[0];ui.tab='armory';ui.atab='w';ui.sheet=w?{t:'w',id:w.id,m:'main'}:null;render();return}
+  if(k==='lore91'){const w=makeWeapon('dev_sword',2,8,[]);save();ui.sheet={t:'w',id:w.id,m:'enh'};loreOpen('enh');return}
   if(k==='lore83r'){S.loreSeen={};save();render();return toast('故事書已讀已重置','ok')}
   if(k==='lore83'){const w=makeWeapon('dev_sword',2,6,[]);save();ui.sheet={t:'w',id:w.id,m:'ench'};loreOpen('ench');return}
   if(k==='brk83'){const w=makeWeapon('dev_sword',2,6,[],[{k:'broken',v:1},null,null,null]);S.items[REPAIR]=(S.items[REPAIR]|0)+3;save();ui.sheet={t:'w',id:w.id,m:'main'};render();return}

diff --git a/src/skin.js b/src/skin.js
@@ -19,39 +19,36 @@
  *
  * 槽位對應的元件請見開發工具 →「UI 元件」分頁，或 UI_元件架構說明.txt。
  * ===================================================================== */
-const UI491_BTN=false;   // v4.91 按鈕要等角落雕花版的新圖（兩端整片雕花會因按鈕高矮變大變小，Mochi 不要）
 const UI_SKIN={
-  ...(UI491_BTN?{
-  'btn-primary':{src:'art/ui/ui491_btn_pri.webp',slice:[63,50,63,50],width:[30,24,30,24],css:'text-shadow:0 1px 2px #000,0 0 4px rgba(0,0,0,.85);padding-left:max(16px,.5em + 12px);padding-right:max(16px,.5em + 12px)'},  'btn-primary:pressed':{src:'art/ui/ui491_btn_pri_p.webp'},  'btn-primary:disabled':{src:'art/ui/ui491_btn_pri_d.webp',css:'filter:none;opacity:1;color:#cfc4b0;text-shadow:0 1px 2px #000,0 0 4px rgba(0,0,0,.85)'},
-  'btn-primary-big':{src:'art/ui/ui491_btn_pri.webp',slice:[63,50,63,50],width:[30,24,30,24],css:'text-shadow:0 1px 2px #000,0 0 4px rgba(0,0,0,.85);padding-left:max(16px,.5em + 12px);padding-right:max(16px,.5em + 12px)'},  'btn-primary-big:pressed':{src:'art/ui/ui491_btn_pri_p.webp'},  'btn-primary-big:disabled':{src:'art/ui/ui491_btn_pri_d.webp',css:'filter:none;opacity:1;color:#cfc4b0;text-shadow:0 1px 2px #000,0 0 4px rgba(0,0,0,.85)'},
-  'btn-primary-compact':{src:'art/ui/ui491_btn_pri.webp',slice:[63,50,63,50],width:[30,24,30,24],css:'text-shadow:0 1px 2px #000,0 0 4px rgba(0,0,0,.85);padding-left:max(16px,.5em + 12px);padding-right:max(16px,.5em + 12px)'},  'btn-primary-compact:pressed':{src:'art/ui/ui491_btn_pri_p.webp'},  'btn-primary-compact:disabled':{src:'art/ui/ui491_btn_pri_d.webp',css:'filter:none;opacity:1;color:#cfc4b0;text-shadow:0 1px 2px #000,0 0 4px rgba(0,0,0,.85)'},
-  'btn-secondary':{src:'art/ui/ui491_btn_sec.webp',slice:[63,50,63,50],width:[30,24,30,24],css:'text-shadow:0 1px 2px #000,0 0 4px rgba(0,0,0,.85);padding-left:max(16px,.5em + 12px);padding-right:max(16px,.5em + 12px)'},  'btn-secondary:pressed':{src:'art/ui/ui491_btn_sec_p.webp'},  'btn-secondary:disabled':{src:'art/ui/ui491_btn_sec_d.webp',css:'filter:none;opacity:1;color:#cfc4b0;text-shadow:0 1px 2px #000,0 0 4px rgba(0,0,0,.85)'},
-  'btn-secondary-big':{src:'art/ui/ui491_btn_sec.webp',slice:[63,50,63,50],width:[30,24,30,24],css:'text-shadow:0 1px 2px #000,0 0 4px rgba(0,0,0,.85);padding-left:max(16px,.5em + 12px);padding-right:max(16px,.5em + 12px)'},  'btn-secondary-big:pressed':{src:'art/ui/ui491_btn_sec_p.webp'},  'btn-secondary-big:disabled':{src:'art/ui/ui491_btn_sec_d.webp',css:'filter:none;opacity:1;color:#cfc4b0;text-shadow:0 1px 2px #000,0 0 4px rgba(0,0,0,.85)'},
-  'btn-secondary-compact':{src:'art/ui/ui491_btn_sec.webp',slice:[63,50,63,50],width:[30,24,30,24],css:'text-shadow:0 1px 2px #000,0 0 4px rgba(0,0,0,.85);padding-left:max(16px,.5em + 12px);padding-right:max(16px,.5em + 12px)'},  'btn-secondary-compact:pressed':{src:'art/ui/ui491_btn_sec_p.webp'},  'btn-secondary-compact:disabled':{src:'art/ui/ui491_btn_sec_d.webp',css:'filter:none;opacity:1;color:#cfc4b0;text-shadow:0 1px 2px #000,0 0 4px rgba(0,0,0,.85)'},
-  'btn-danger':{src:'art/ui/ui491_btn_dan.webp',slice:[63,50,63,50],width:[30,24,30,24],css:'text-shadow:0 1px 2px #000,0 0 4px rgba(0,0,0,.85);padding-left:max(16px,.5em + 12px);padding-right:max(16px,.5em + 12px)'},  'btn-danger:pressed':{src:'art/ui/ui491_btn_dan_p.webp'},  'btn-danger:disabled':{src:'art/ui/ui491_btn_dan_d.webp',css:'filter:none;opacity:1;color:#cfc4b0;text-shadow:0 1px 2px #000,0 0 4px rgba(0,0,0,.85)'},
-  'btn-danger-big':{src:'art/ui/ui491_btn_dan.webp',slice:[63,50,63,50],width:[30,24,30,24],css:'text-shadow:0 1px 2px #000,0 0 4px rgba(0,0,0,.85);padding-left:max(16px,.5em + 12px);padding-right:max(16px,.5em + 12px)'},  'btn-danger-big:pressed':{src:'art/ui/ui491_btn_dan_p.webp'},  'btn-danger-big:disabled':{src:'art/ui/ui491_btn_dan_d.webp',css:'filter:none;opacity:1;color:#cfc4b0;text-shadow:0 1px 2px #000,0 0 4px rgba(0,0,0,.85)'},
-  'btn-danger-compact':{src:'art/ui/ui491_btn_dan.webp',slice:[63,50,63,50],width:[30,24,30,24],css:'text-shadow:0 1px 2px #000,0 0 4px rgba(0,0,0,.85);padding-left:max(16px,.5em + 12px);padding-right:max(16px,.5em + 12px)'},  'btn-danger-compact:pressed':{src:'art/ui/ui491_btn_dan_p.webp'},  'btn-danger-compact:disabled':{src:'art/ui/ui491_btn_dan_d.webp',css:'filter:none;opacity:1;color:#cfc4b0;text-shadow:0 1px 2px #000,0 0 4px rgba(0,0,0,.85)'},
-  }:{}),
-  // v4.91 Mochi：程式畫的框和按鈕看起來很廉價 → 全部換成 AI 細線框（拼圖 3 張：/mnt/project-files/ui-skin/v4.91/）
-  //   width 是四邊圖框的繪製寬度；按鈕的上下寬度相加大於按鈕高度時，瀏覽器會整組等比縮小，所以同一張圖可以給各種高度的按鈕用
-  'btn-chip':{src:'art/ui/ui491_pill.webp',slice:[59,60,59,60],width:[30,30,30,30]},  'btn-chip:on':{src:'art/ui/ui491_pill_on.webp',css:'color:var(--gold-hi)'},
-  'btn-toggle':{src:'art/ui/ui491_tog.webp',slice:[40,40,40,40],width:[12,12,12,12]},  'btn-toggle:on':{src:'art/ui/ui491_tog_on.webp'},
+  // v4.91 Mochi：程式畫的框和按鈕看起來很廉價 → 換成 AI 細線框（拼圖：/mnt/project-files/ui-skin/v4.91/整合版_*）
+  //   規則：雕花只在四個角，所有元件的角落雕花都一樣大（圖框繪製寬度 ÷ 切片 ≈ 0.3）；框中間是空的，底紋另外用可重複的 ui491_tex
+  'btn-primary':{src:'art/ui/ui491_b_pri.webp',slice:[52,52,52,52],width:[15,15,15,15],css:'text-shadow:0 1px 2px #000,0 0 4px rgba(0,0,0,.85);padding-left:16px;padding-right:16px'},  'btn-primary:pressed':{src:'art/ui/ui491_b_pri_p.webp'},  'btn-primary:disabled':{src:'art/ui/ui491_b_pri_d.webp',css:'filter:none;opacity:1;color:#bdb3a2;text-shadow:0 1px 2px #000,0 0 4px rgba(0,0,0,.85)'},
+  'btn-primary-big':{src:'art/ui/ui491_b_pri.webp',slice:[52,52,52,52],width:[15,15,15,15],css:'text-shadow:0 1px 2px #000,0 0 4px rgba(0,0,0,.85);padding-left:16px;padding-right:16px'},  'btn-primary-big:pressed':{src:'art/ui/ui491_b_pri_p.webp'},  'btn-primary-big:disabled':{src:'art/ui/ui491_b_pri_d.webp',css:'filter:none;opacity:1;color:#bdb3a2;text-shadow:0 1px 2px #000,0 0 4px rgba(0,0,0,.85)'},
+  'btn-primary-compact':{src:'art/ui/ui491_b_pri.webp',slice:[52,52,52,52],width:[15,15,15,15],css:'text-shadow:0 1px 2px #000,0 0 4px rgba(0,0,0,.85);padding-left:16px;padding-right:16px'},  'btn-primary-compact:pressed':{src:'art/ui/ui491_b_pri_p.webp'},  'btn-primary-compact:disabled':{src:'art/ui/ui491_b_pri_d.webp',css:'filter:none;opacity:1;color:#bdb3a2;text-shadow:0 1px 2px #000,0 0 4px rgba(0,0,0,.85)'},
+  'btn-secondary':{src:'art/ui/ui491_b_sec.webp',slice:[52,52,52,52],width:[15,15,15,15],css:'text-shadow:0 1px 2px #000,0 0 4px rgba(0,0,0,.85);padding-left:16px;padding-right:16px'},  'btn-secondary:pressed':{src:'art/ui/ui491_b_sec_p.webp'},  'btn-secondary:disabled':{src:'art/ui/ui491_b_sec_d.webp',css:'filter:none;opacity:1;color:#bdb3a2;text-shadow:0 1px 2px #000,0 0 4px rgba(0,0,0,.85)'},
+  'btn-secondary-big':{src:'art/ui/ui491_b_sec.webp',slice:[52,52,52,52],width:[15,15,15,15],css:'text-shadow:0 1px 2px #000,0 0 4px rgba(0,0,0,.85);padding-left:16px;padding-right:16px'},  'btn-secondary-big:pressed':{src:'art/ui/ui491_b_sec_p.webp'},  'btn-secondary-big:disabled':{src:'art/ui/ui491_b_sec_d.webp',css:'filter:none;opacity:1;color:#bdb3a2;text-shadow:0 1px 2px #000,0 0 4px rgba(0,0,0,.85)'},
+  'btn-secondary-compact':{src:'art/ui/ui491_b_sec.webp',slice:[52,52,52,52],width:[15,15,15,15],css:'text-shadow:0 1px 2px #000,0 0 4px rgba(0,0,0,.85);padding-left:16px;padding-right:16px'},  'btn-secondary-compact:pressed':{src:'art/ui/ui491_b_sec_p.webp'},  'btn-secondary-compact:disabled':{src:'art/ui/ui491_b_sec_d.webp',css:'filter:none;opacity:1;color:#bdb3a2;text-shadow:0 1px 2px #000,0 0 4px rgba(0,0,0,.85)'},
+  'btn-danger':{src:'art/ui/ui491_b_dan.webp',slice:[52,52,52,52],width:[15,15,15,15],css:'text-shadow:0 1px 2px #000,0 0 4px rgba(0,0,0,.85);padding-left:16px;padding-right:16px'},  'btn-danger:pressed':{src:'art/ui/ui491_b_dan_p.webp'},  'btn-danger:disabled':{src:'art/ui/ui491_b_dan_d.webp',css:'filter:none;opacity:1;color:#bdb3a2;text-shadow:0 1px 2px #000,0 0 4px rgba(0,0,0,.85)'},
+  'btn-danger-big':{src:'art/ui/ui491_b_dan.webp',slice:[52,52,52,52],width:[15,15,15,15],css:'text-shadow:0 1px 2px #000,0 0 4px rgba(0,0,0,.85);padding-left:16px;padding-right:16px'},  'btn-danger-big:pressed':{src:'art/ui/ui491_b_dan_p.webp'},  'btn-danger-big:disabled':{src:'art/ui/ui491_b_dan_d.webp',css:'filter:none;opacity:1;color:#bdb3a2;text-shadow:0 1px 2px #000,0 0 4px rgba(0,0,0,.85)'},
+  'btn-danger-compact':{src:'art/ui/ui491_b_dan.webp',slice:[52,52,52,52],width:[15,15,15,15],css:'text-shadow:0 1px 2px #000,0 0 4px rgba(0,0,0,.85);padding-left:16px;padding-right:16px'},  'btn-danger-compact:pressed':{src:'art/ui/ui491_b_dan_p.webp'},  'btn-danger-compact:disabled':{src:'art/ui/ui491_b_dan_d.webp',css:'filter:none;opacity:1;color:#bdb3a2;text-shadow:0 1px 2px #000,0 0 4px rgba(0,0,0,.85)'},
+  'btn-chip':{src:'art/ui/ui491_cap.webp',slice:[53,53,53,53],width:[30,30,30,30],fill:false,css:'background:#15110d'},  'btn-chip:on':{src:'art/ui/ui491_cap_on.webp',css:'color:var(--gold-hi)'},
+  'btn-toggle':{src:'art/ui/ui491_fr.webp',slice:[50,50,50,50],width:[15,15,15,15],fill:false,css:'background:linear-gradient(rgba(0,0,0,.38),rgba(0,0,0,.38)),url(art/ui/ui491_tex.webp) center/240px'},  'btn-toggle:on':{src:'art/ui/ui491_fr_on.webp'},
   'btn-accent':null,            'btn-accent:pressed':null,
   'btn-icon':null,              'btn-icon:pressed':null,
-  'tab':{src:'art/ui/ui491_tab.webp',slice:[34,34,34,34],width:[10,10,10,10]},  'tab:on':{src:'art/ui/ui491_tab_on.webp'},
+  'tab':{src:'art/ui/ui491_fr.webp',slice:[50,50,50,50],width:[15,15,15,15],fill:false,css:'background:linear-gradient(rgba(0,0,0,.38),rgba(0,0,0,.38)),url(art/ui/ui491_tex.webp) center/240px'},  'tab:on':{src:'art/ui/ui491_fr_on.webp'},
   // 面板與卡片
-  'panel':{src:'art/ui/ui491_panel.webp',slice:[52,52,52,52],width:[16,16,16,16]},
+  'panel':{src:'art/ui/ui491_fr.webp',slice:[50,50,50,50],width:[15,15,15,15],fill:false,css:'background:url(art/ui/ui491_tex.webp) center/240px'},
   'title':null,
-  'card':{src:'art/ui/ui491_cell.webp',slice:[46,46,46,46],width:[14,14,14,14]},  'card:on':{src:'art/ui/ui491_cell_on.webp'},
-  'card-compact':{src:'art/ui/ui491_cell.webp',slice:[46,46,46,46],width:[14,14,14,14]},  'card-compact:on':{src:'art/ui/ui491_cell_on.webp'},
+  'card':{src:'art/ui/ui491_fr.webp',slice:[50,50,50,50],width:[15,15,15,15],fill:false,css:'background:linear-gradient(rgba(0,0,0,.38),rgba(0,0,0,.38)),url(art/ui/ui491_tex.webp) center/240px'},  'card:on':{src:'art/ui/ui491_fr_on.webp'},
+  'card-compact':{src:'art/ui/ui491_fr.webp',slice:[50,50,50,50],width:[15,15,15,15],fill:false,css:'background:linear-gradient(rgba(0,0,0,.38),rgba(0,0,0,.38)),url(art/ui/ui491_tex.webp) center/240px'},  'card-compact:on':{src:'art/ui/ui491_fr_on.webp'},
   'card-feature':null,
-  'card-option':{src:'art/ui/ui491_cell.webp',slice:[46,46,46,46],width:[14,14,14,14]},  'card-option:on':{src:'art/ui/ui491_cell_on.webp'},
-  'card-row':{src:'art/ui/ui491_row.webp',slice:[46,46,46,46],width:[14,14,14,14]},
+  'card-option':{src:'art/ui/ui491_fr.webp',slice:[50,50,50,50],width:[15,15,15,15],fill:false,css:'background:linear-gradient(rgba(0,0,0,.38),rgba(0,0,0,.38)),url(art/ui/ui491_tex.webp) center/240px'},  'card-option:on':{src:'art/ui/ui491_fr_on.webp'},
+  'card-row':{src:'art/ui/ui491_fr.webp',slice:[50,50,50,50],width:[15,15,15,15],fill:false,css:'background:linear-gradient(rgba(0,0,0,.38),rgba(0,0,0,.38)),url(art/ui/ui491_tex.webp) center/240px'},
   'badge':null,
   'prog':null,                  'prog-fill':null,
   // 視窗與常駐列
-  'sheet':{src:'art/ui/ui491_modal.webp',slice:[58,58,58,58],width:[17,17,17,17]},
-  'modal':{src:'art/ui/ui491_modal.webp',slice:[58,58,58,58],width:[17,17,17,17]},
+  'sheet':{src:'art/ui/ui491_fr_modal.webp',slice:[50,50,50,50],width:[17,17,17,17],fill:false,css:'background:url(art/ui/ui491_tex.webp) center/240px'},
+  'modal':{src:'art/ui/ui491_fr_modal.webp',slice:[50,50,50,50],width:[17,17,17,17],fill:false,css:'background:url(art/ui/ui491_tex.webp) center/240px'},
   'toast':null,
   'topbar':null,
   'navbar':null,

diff --git a/src/style.css b/src/style.css
@@ -1987,18 +1987,20 @@ body.dpv .hero .dp-firelit{position:absolute;inset:0;z-index:1;pointer-events:no
 .fk-me .fk-s{font-size:20px;font-family:var(--display)}
 .kvgrid [class*="elc-"]{color:var(--ec)}   /* v4.76 村莊詳情的屬性、弱點用屬性顏色 */
 
-/* v4.91 Mochi：程式畫的框線看起來廉價 → 沒有皮膚槽位的元件也換成 AI 細線框（素材 art/ui/ui491_*，皮膚槽位設定在 skin.js） */
+/* v4.91 Mochi：程式畫的框線看起來廉價 → 沒有皮膚槽位的元件也換成 AI 細線框（素材 art/ui/ui491_*，皮膚槽位設定在 skin.js）
+   框：fr 暗銅／fr_on 金（選中）／fr_red 紅（危險）／fr_off 灰（鎖住、停用），角落雕花一樣大（15px）；fl* 是沒有雕花的細線框，給小元件用；cap* 是膠囊 */
 .sheet,.modal-card,.info-body{scrollbar-width:none}.sheet::-webkit-scrollbar,.modal-card::-webkit-scrollbar,.info-body::-webkit-scrollbar{display:none}   /* 小卡內容稍微超出時不顯示旁邊的捲動條（還是可以滑） */
-.wt:not(#_),.wt:is(.l0b,.l1b,.l2b,.l3b,.l4b,.l5b,.l6b,.posted):not(#_){border-color:transparent;border-image:url(art/ui/ui491_tile.webp) 44 fill / 13px stretch;background:none;box-shadow:none}
-.sg-day:not(#_),.matbox:not(#_){border-color:transparent;border-image:url(art/ui/ui491_cell.webp) 46 fill / 14px stretch;background:none;box-shadow:none}
-.sg-day.today:not(#_){border-image-source:url(art/ui/ui491_cell_on.webp)}
-.ach-rw:not(#_){border-color:transparent;border-image:url(art/ui/ui491_pill.webp) 59 60 fill / 30px stretch;background:none}
-.res .chip:not(#_){border-color:transparent;border-image:url(art/ui/ui491_res.webp) 56 58 fill / 30px stretch;background:none;box-shadow:none}
-.cbar-in:not(#_){border-color:transparent;border-image:url(art/ui/ui491_chat.webp) 36 40 fill / 10px 12px stretch;background:none;box-shadow:none}
-.sel select:not(#_){appearance:none;-webkit-appearance:none;border-color:transparent;border-image:url(art/ui/ui491_select.webp) 34 70 34 34 fill / 10px 21px 10px 10px stretch;background:none;padding-right:26px}
+.wt:not(#_),.wt:is(.l0b,.l1b,.l2b,.l3b,.l4b,.l5b,.l6b,.posted):not(#_),.sg-day:not(#_),.matbox:not(#_),.ev-st:not(#_),.wp-g>*:not(#_){border-color:transparent;border-image:url(art/ui/ui491_fr.webp) 50 / 15px stretch;background:linear-gradient(rgba(0,0,0,.38),rgba(0,0,0,.38)),url(art/ui/ui491_tex.webp) center/240px;box-shadow:none}
+.wt.on:not(#_),.sg-day.today:not(#_){outline:none;border-image-source:url(art/ui/ui491_fr_on.webp)}
+.ev-st.risk:not(#_),.enh-stage.danger:not(#_){border-color:transparent;border-image:url(art/ui/ui491_fr_red.webp) 50 / 15px stretch}
+.enh-stage:not(.danger):not(#_){border-color:transparent;border-image:url(art/ui/ui491_fr.webp) 50 / 15px stretch}
+.ev-warn.risk:not(#_){border-color:transparent;border-image:url(art/ui/ui491_fl_red.webp) 24 / 8px stretch}
+.enh-more:not(#_),.cbar-in:not(#_){border-color:transparent;border-image:url(art/ui/ui491_fl.webp) 24 / 8px stretch;box-shadow:none}
+.vlocked:not(#_){border-style:solid;border-color:transparent;border-image:url(art/ui/ui491_fr_off.webp) 50 / 15px stretch}
+.ach-rw:not(#_),.res .chip:not(#_){border-color:transparent;border-image:url(art/ui/ui491_cap.webp) 53 / 30px stretch;background:#15110d;box-shadow:none}
+.sel select:not(#_){appearance:none;-webkit-appearance:none;border-color:transparent;border-image:url(art/ui/ui491_fl.webp) 24 / 8px stretch;background:url(art/ui/ui491_chev.webp) right 10px center/10px auto no-repeat,#15110d;padding-right:28px}
 .sel select option{background:#16110d;color:var(--bone)}
 .info-btn:not(#_){border-color:transparent;background:url(art/ui/ui491_info.webp) center/100% 100% no-repeat;box-shadow:none}
-.wt.on:not(#_){outline:none;border-image-source:url(art/ui/ui491_cell_on.webp)}   /* 選中的圖紙／武器格用金色細框，不用程式畫的外框線 */
-.ui-panel .ui-card.sel-head:not(#_){border-image:none;border-color:transparent;background:none}   /* 面板裡的已選擇區塊不要再套一層框 */
-.res .chip:not(#_){padding-right:14px}
+.wp-g>*:not(#_){padding:9px 13px}
+.ui-panel.panel .ui-card.sel-head.sel-head:not(#_){border-image:none;border-color:transparent;background:none}   /* 面板裡的已選擇區塊不要再套一層框 */
 </style>
